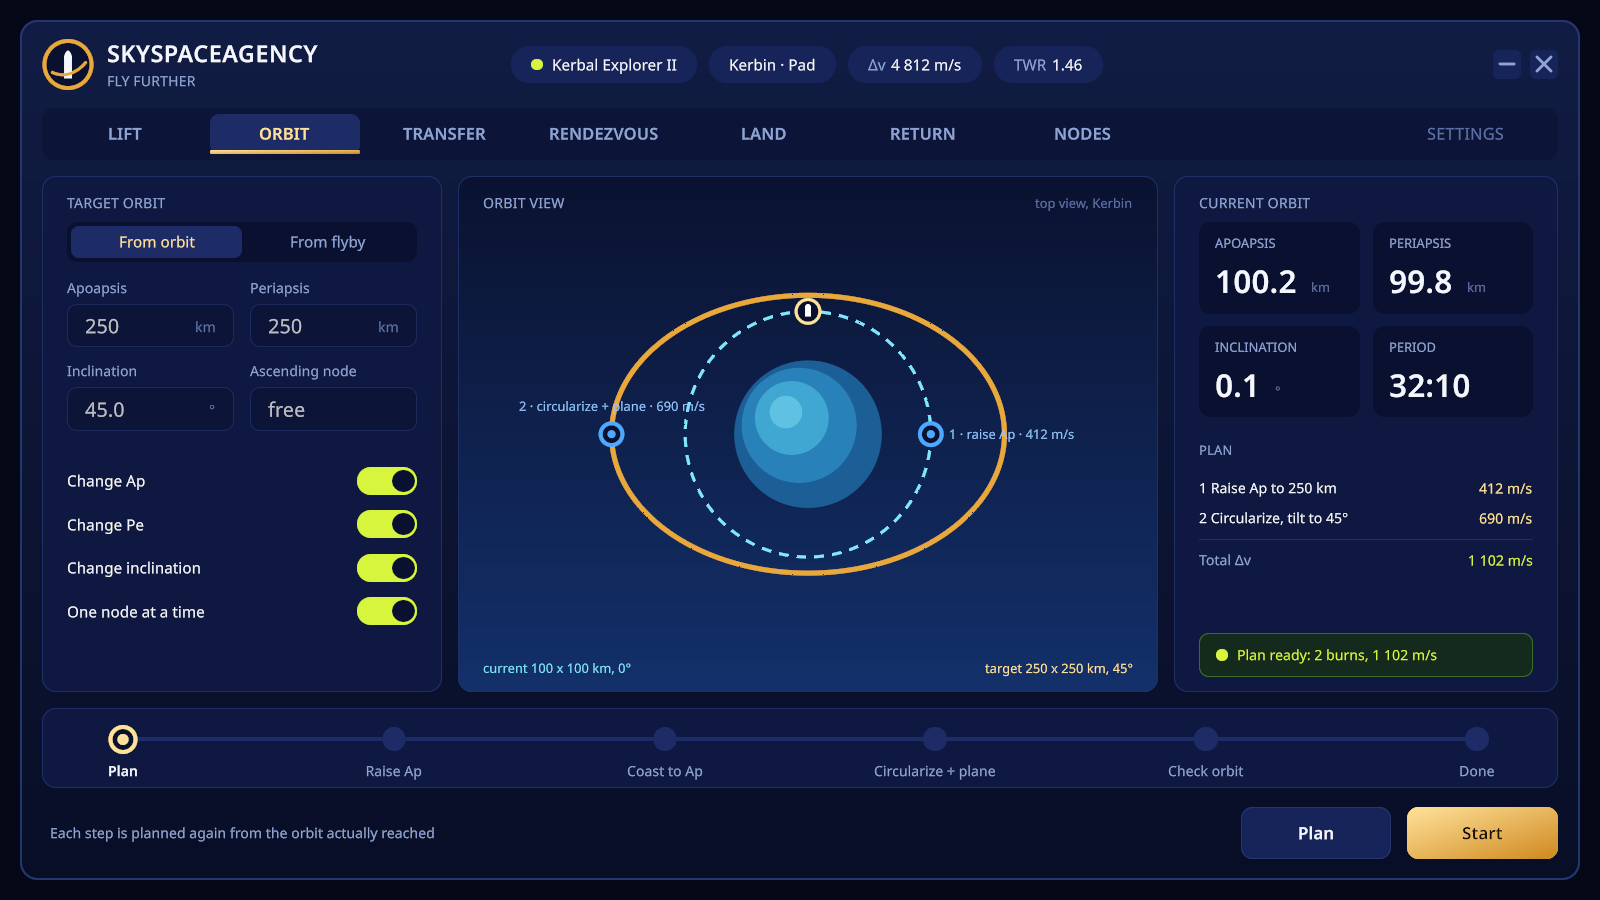
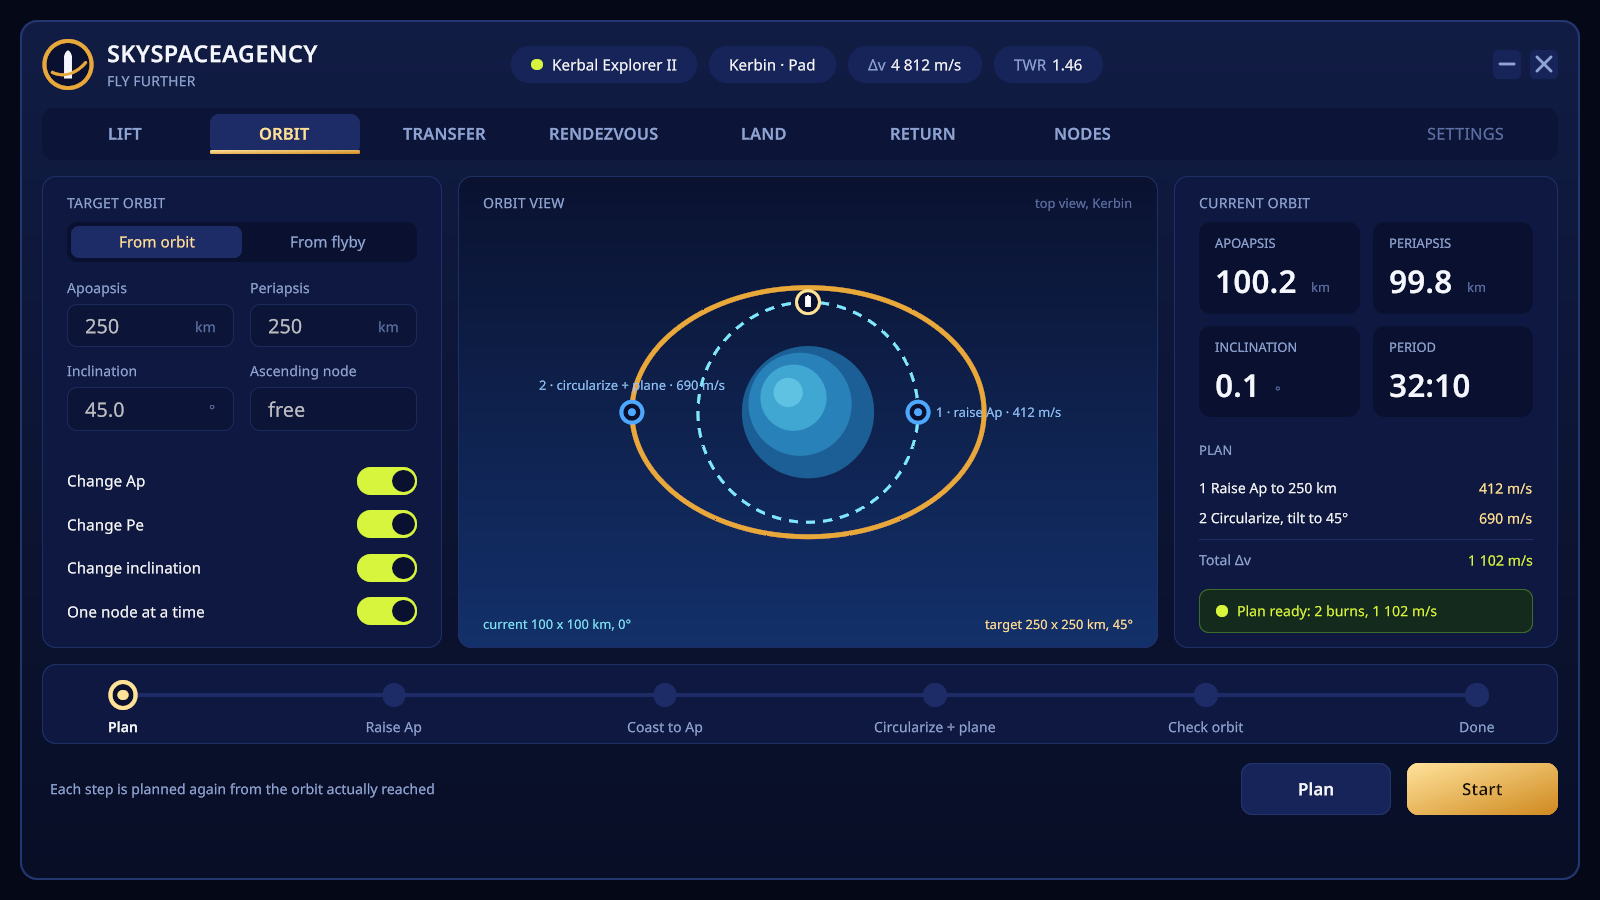
Small-window mode: plan addendum, captures at 760x480, 1000x600, 1360x765 in both modes, changelog, in-game checks (28)

Changed region(s): [[0.0312, 0.6533, 1.0, 0.9644], [0.3438, 0.3111, 0.6562, 0.6533]]

diff --git a/CHANGELOG.md b/CHANGELOG.md
@@ -2,6 +2,10 @@
 
 ## Unreleased (SkySpaceAgency)
 
+### New interface: small-window mode (2026-11-20)
+
+- **Settings > Interface > "Small window: Scale / Reflow"** (`app_small_window`, default **Scale**; not yet checked in game): with Scale, a window smaller than the default one keeps the layout of the mockups (three columns, timeline, action bar) and shrinks everything to fit, with no scrolling, down to half size (the minimum window, 760 x 480, is about 0.56); with Reflow, the previous behaviour (below 1100 px wide the columns re-flow and the page scrolls). The window keeps its real size, so the resize handle, the drag and the saved size are unchanged; the scale combines with the interface scale and the game's UI Scale. The minimised window shows its header at full size.
+
 ### New interface, step 2: every tab in the new window (2026-11-19)
 
 - **The new window is now the default** (not yet checked in game): Alt+Y and the app bar button open it. Every tab of the classic window moved to it, wired to the same pilots and the same settings (settings files, plans and VAB files are read as they are): **LIFT**, **ORBIT**, **TRANSFER**, **RENDEZVOUS** (docking included), **LAND**, **NODES** (the classic Attitude tab is its "Hold attitude" card) and **SETTINGS** (General, Interface, Staging, Warp, Logs, About: the classic About tab, Reset All, the auto-staging toggle of the classic title bar, the interface scale, the shortcut). Each tab follows its mockup: three columns, a centre view drawn from the real data (ascent profile with the flown path, orbit top view with the planned burns, transfer map, approach view, descent profile, burn navball), the pilot's real phases in the timeline, its status, console and progress in the right column, and the gold main button that says what the pilot does. A tab whose pilot flies is lit. **RETURN** is a "planned" page in the mockup's style (no pilot yet). The header chips show the active vessel, its body and situation, its Δv and TWR. **Compact flight bar** (Settings > General, on by default, `app_compact_bar`): while a pilot flies and the window is closed, a bar at the top of the screen shows the pilot, its phase, its readouts, Stop and a button that opens the window; it turns coral when a guard acts. **Classic UI** (Settings > Interface, `app_classic_ui`) brings the classic window back on Alt+Y and the app bar until the new one is validated in game; the classic window's **New UI** button switches back. A low window scrolls its timeline with the columns; the slider track now starts under its label. Inventory of what moved where: `docs/superpowers/notes/new-ui-inventory/`. Logs `AppWindow: tab '…' update failed: …` (once per distinct error).

diff --git a/docs/superpowers/plans/2026-11-19-new-ui-tab-migration.md b/docs/superpowers/plans/2026-11-19-new-ui-tab-migration.md
@@ -80,3 +80,27 @@ classic-only SsaUI controls no new tab uses, `UiLayoutHarness`/`UiLayoutTests`, 
 Addressables entry, `AppSettings.ClassicUi` and the "New UI" button; `Pilot.page` and the settings' `setupUI`
 methods (classic bindings) go too, after moving any logic they hold (static settings classes declared inside
 `TransferUI.cs` and `RendezvousUI.cs` move to their own files first).
+
+### Addendum 2026-11-20: small-window mode (Reflow / Scale)
+
+Requested after the first in-game trial: below 1100 px the columns re-flowed and the page scrolled. Setting
+`app_small_window` (`EnumSetting<SmallWindowMode>`, Settings > Interface > "Small window"), **default Scale** (the
+window is designed in three columns, as the mockups; Reflow stays one click away and is unchanged).
+
+**How Scale is made.** The header, tab bar and pages live in a body (`AppWindowView`, element `app-body`). In Scale
+mode the body is laid out at the logical size `inner / s` and drawn with `style.scale = s` from its top-left corner,
+positioned over the window's inner box (absolute, at the padding), so it fills the window exactly. `s =
+SmallWindowScale.Factor(inner)`: the smaller of inner.x / 1322 and inner.y / 740 (the inner size the default window
+1360 x 765 gives), never above 1 (no enlarging: the interface scale does that), never below 0.5 (the readability
+floor; the minimum window 760 x 480 gives 0.56). The logical size is therefore never smaller than the reference: the
+layout is never narrow nor compact, so it is exactly the mockup's.
+
+**Why a transform on the body and not `PanelSettings.scale`.** The panel scale multiplies the whole panel, window
+included: a 760 px window would then occupy 760 x s pixels and the content would still not fit it. A transform on the
+window itself would falsify what the resize handle (`ResizeManipulator` reads the target's `worldBound`), the drag clamp
+and `WindowSizeSaver` read. A transform on the body only leaves the window (and its handle, a child of the window
+outside the body) at its real size: resizing, dragging, the screen clamp and the saved geometry are untouched. It
+combines with the interface scale and the game's UI scale (both are the panel scale, applied above). UITK maps pointer
+positions through element transforms, so sliders, fields and buttons inside the scaled body work. Minimised, the body
+returns to normal flow and scale 1 (the header only). Known limit: drop-down popups open in the panel root at normal
+size, not shrunk.

diff --git a/docs/testing/2026-10-24-transfers-in-game-checklist.md b/docs/testing/2026-10-24-transfers-in-game-checklist.md
@@ -434,3 +434,21 @@ Plan `docs/superpowers/plans/2026-11-19-new-ui-tab-migration.md`, inventaire `do
     même valeur (et l'inverse). Relancer le jeu : les valeurs restent.
 14. **Fenêtre basse.** À 760 x 480, la frise défile avec les colonnes ; la barre d'actions reste visible.
 
+## 28. Fenêtre réduite : Scale / Reflow (2026-11-20)
+
+Réglage SETTINGS > Interface > « Small window » (Scale par défaut, Reflow = comportement d'avant). Captures de référence :
+`docs/design/ui/migration/small_*`.
+
+1. **Scale.** Réduire la fenêtre avec la poignée (jusqu'à 760 x 480) : les trois colonnes, la frise et la barre d'actions
+   restent comme à la grande taille, tout rétrécit sans défilement ; jamais en dessous de la moitié ; texte encore lisible
+   à la taille minimale. La poignée suit bien la souris (la fenêtre garde sa vraie taille) ; le déplacement par l'en-tête
+   marche à toute échelle.
+2. **Commandes réduites.** Curseurs, champs, interrupteurs, boutons, liste déroulante et Start/Stop restent utilisables
+   quand le contenu est réduit (clic au bon endroit). Les listes déroulantes s'ouvrent à taille normale (attendu).
+3. **Reflow.** Passer à Reflow : sous 1100 px les colonnes se réorganisent et la page défile, comme avant.
+4. **Bascule en direct.** Changer le choix fenêtre ouverte : la mise en page change tout de suite, sans fermer.
+5. **Combinaison.** Avec l'échelle d'interface (75 à 150 %) et l'échelle d'UI du jeu : la fenêtre reste à l'écran et le
+   contenu la remplit.
+6. **Réduire (« – »).** L'en-tête seul, à taille normale ; la restauration rend l'échelle d'avant. La taille enregistrée
+   reste celle de la fenêtre (relancer le jeu : même taille, même échelle).
+7. **Défaut.** Un joueur sans réglage enregistré a Scale (fichier de réglages sans `app_small_window`).

diff --git a/docs/superpowers/notes/new-ui-inventory/settings.md b/docs/superpowers/notes/new-ui-inventory/settings.md
@@ -115,3 +115,6 @@ classic tab. The page is the mockup's layout, every control disabled.
 - The compact flight bar: placement over the game's UI at each UI scale, its font, the alert colours, Stop and open
   buttons; it is not scaled by the interface scale unless the panel's scale applies to the host (it should: same panel).
 - The Return drawing at other window sizes (labels are placed in fractions of the view).
+
+## Addendum 2026-11-20
+- [x] `app_small_window` (Small window: Scale / Reflow) -> SETTINGS > Interface, segmented choice + note.
